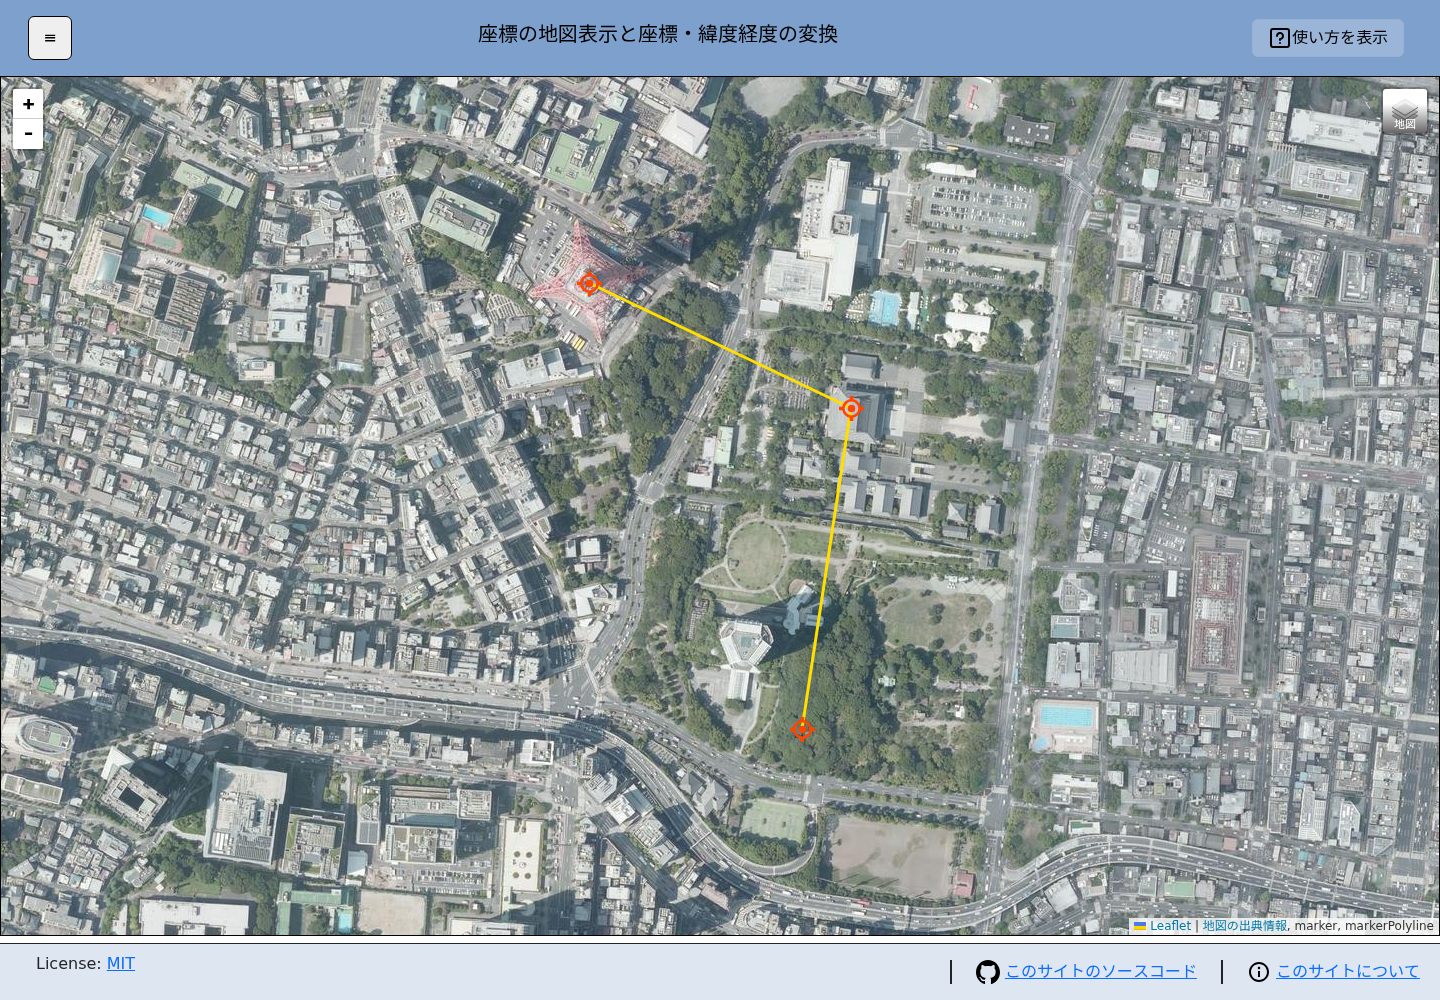
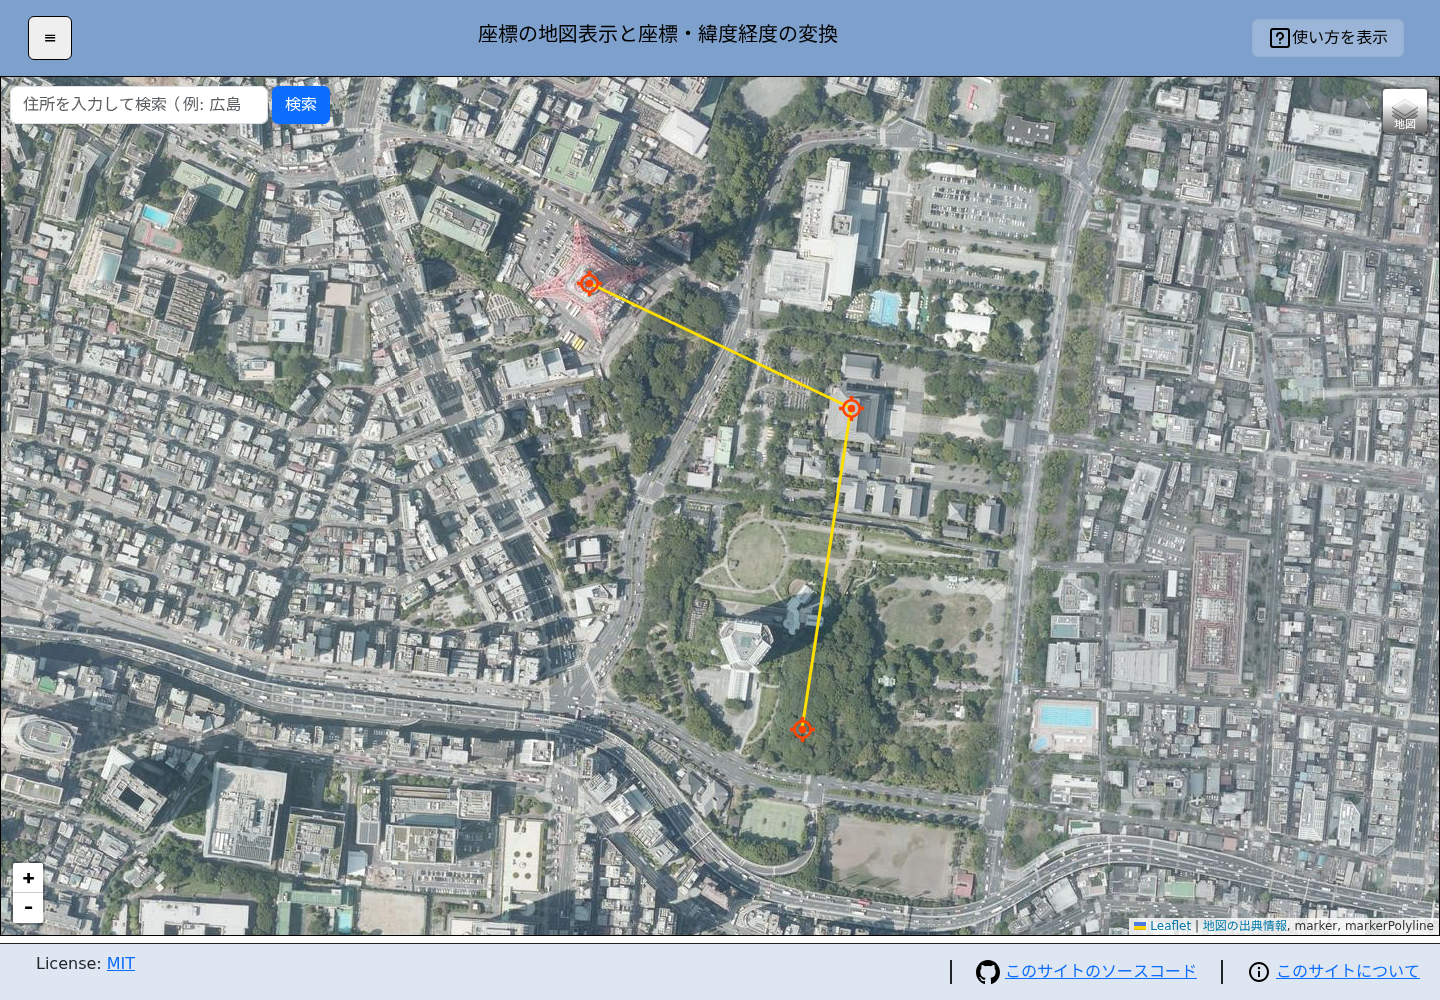
住所検索機能の追加に伴うマニュアルと操作ガイドを更新
住所入力から地図中心を移動する機能がマニュアルに未反映だったため、
操作マニュアルと目的別操作ガイドに住所検索の手順を追加した。

- docs/manual.html に「3. 住所で地図を移動する」を追加し、以降の節番号と
  目次を更新。「画面の見方」の表に住所検索欄と左下のズームボタンを追記し、
  「困ったときは」に住所検索の該当なし・検索失敗の対処を追加
- scripts/capture-manual-screenshots.mjs に住所検索の撮影処理を追加。
  候補一覧の表示（13）と候補確定後の地図移動（14）を撮影する。ホバーの
  ハイライトが残らないよう、ポインターを地図側へ退避してEnterで送信する
- 検索欄が地図左上に常設され、ズームコントロールが左下へ移動したことで
  見た目が変わった既存の地図スクリーンショットを再撮影
- src/partials/help.ejs に「都市計画・防災情報を確認する」と
  「住所で地図を移動する」の項目を追加（手作業による更新分）

gps_test1〜3.jpg がリポジトリに無いため、11-photo-locations.png は
再撮影せず従来の画像を据え置いている。

Changed region(s): [[0.0, 0.062, 0.25, 0.155], [0.0, 0.837, 0.0312, 0.93]]

diff --git a/docs/manual.html b/docs/manual.html
@@ -332,11 +332,11 @@
   <header class="cover">
     <p class="cover__eyebrow">User manual</p>
     <h1>座標の地図表示と<br>座標・緯度経度の変換</h1>
-    <p class="cover__lead">座標の入力、地図への図形追加、都市計画・防災情報の確認、距離計測、座標変換、CSV出力、写真位置表示の操作マニュアルです。</p>
+    <p class="cover__lead">住所検索、座標の入力、地図への図形追加、都市計画・防災情報の確認、距離計測、座標変換、CSV出力、写真位置表示の操作マニュアルです。</p>
     <div class="cover__meta">
       <span>デスクトップ版</span>
       <span>HTMLマニュアル</span>
-      <span>画面更新: 2026年9月15日</span>
+      <span>画面更新: 2026年9月17日</span>
     </div>
   </header>
 
@@ -346,6 +346,7 @@
       <ol>
         <li><a href="#start">はじめに</a></li>
         <li><a href="#screen">画面の見方</a></li>
+        <li><a href="#address">住所で地図を移動する</a></li>
         <li><a href="#input">座標を入力する</a></li>
         <li><a href="#markers">アイコンを一括追加する</a></li>
         <li><a href="#map-tools">地図を右クリックして加工する</a></li>
@@ -388,6 +389,8 @@
           <tbody>
             <tr><td>左上の「≡」</td><td>座標条件、データテーブル、地図加工、データ変換を表示します。</td></tr>
             <tr><td>中央の地図</td><td>移動、拡大・縮小、右クリック操作、写真のドロップを行います。</td></tr>
+            <tr><td>地図左上の住所検索欄</td><td>住所や地名を入力して、その地点へ地図を移動します。</td></tr>
+            <tr><td>地図左下の「＋」「－」</td><td>地図を拡大・縮小します。</td></tr>
             <tr><td>地図右上のレイヤーボタン</td><td>背景地図の切り替えと、不動産情報ライブラリの都市計画・防災情報の表示を行います。</td></tr>
             <tr><td>右上の「使い方を表示」</td><td>目的別の簡易操作ガイドを表示します。</td></tr>
           </tbody>
@@ -412,8 +415,35 @@
         </figure>
       </section>
 
+      <section id="address">
+        <h2>3. 住所で地図を移動する</h2>
+        <p>地図左上の検索欄に住所や地名を入力すると、その地点を中心に地図が移動します。座標を入力する前に目的の地域へ移動しておくと、以降の操作がしやすくなります。</p>
+        <ol>
+          <li>地図左上の検索欄に住所や地名を入力します（例: <code>芝公園</code>）。</li>
+          <li>「検索」を押すか、<kbd>Enter</kbd> を押します。</li>
+          <li>該当が1件の場合は、その地点へ地図が移動します。</li>
+          <li>該当が複数ある場合は、検索欄の下に候補一覧が表示されます。候補をクリックするか、<kbd>↑</kbd> <kbd>↓</kbd> で選んで <kbd>Enter</kbd> で確定します。<kbd>Esc</kbd> を押すと一覧を閉じます。</li>
+        </ol>
+        <figure>
+          <a href="assets/screenshots/13-address-search.png" target="_blank">
+            <img src="assets/screenshots/13-address-search.png" alt="地図左上の検索欄に住所を入力し、その下に住所の候補一覧を表示した状態" width="1440" height="1000" loading="lazy">
+          </a>
+          <figcaption>「芝公園」で検索し、候補一覧が表示された例。一覧はスクロールして選べます。</figcaption>
+        </figure>
+        <figure>
+          <a href="assets/screenshots/14-address-search-result.png" target="_blank">
+            <img src="assets/screenshots/14-address-search-result.png" alt="候補を選んで、選んだ住所を中心に地図が移動した状態" width="1440" height="1000" loading="lazy">
+          </a>
+          <figcaption>候補を選ぶと、その地点を中心に地図が移動し、検索欄には選んだ住所が入ります。</figcaption>
+        </figure>
+        <div class="note">
+          <strong>検索できる内容</strong>
+          住所検索には国土地理院の住所検索機能を使用しています。日本国内の住所・地名が対象で、番地や建物名まで特定できない場合があります。地図が移動するだけで、アイコンは追加されません。
+        </div>
+      </section>
+
       <section id="input">
-        <h2>3. 座標を入力する</h2>
+        <h2>4. 座標を入力する</h2>
         <ol>
           <li>左上の「≡」を押してメニューを開きます。</li>
           <li>「データの種類」で「XY座標」または「緯度経度」を選びます。</li>
@@ -449,7 +479,7 @@
       </section>
 
       <section id="markers">
-        <h2>4. アイコンを一括追加する</h2>
+        <h2>5. アイコンを一括追加する</h2>
         <ol>
           <li>データテーブルに座標を入力します。</li>
           <li>「地図加工」タブを開きます。</li>
@@ -492,7 +522,7 @@
       </section>
 
       <section id="map-tools">
-        <h2>5. 地図を右クリックして加工する</h2>
+        <h2>6. 地図を右クリックして加工する</h2>
         <p>地図上の任意の場所を右クリックすると、次のメニューが開きます。</p>
         <ul>
           <li>円を追加</li>
@@ -535,7 +565,7 @@
       </section>
 
       <section id="reinfolib">
-        <h2>6. 都市計画・防災情報を確認する</h2>
+        <h2>7. 都市計画・防災情報を確認する</h2>
         <p>国土交通省「不動産情報ライブラリ」の都市計画・防災情報を、地図への重ね合わせと地点ごとの属性情報で確認できます。</p>
 
         <h3>情報を地図に重ねて表示する</h3>
@@ -572,7 +602,7 @@
       </section>
 
       <section id="measure">
-        <h2>7. 距離を計測する</h2>
+        <h2>8. 距離を計測する</h2>
         <h3>地図上の任意の2点を計測する</h3>
         <ol>
           <li>始点を右クリックし、「この地点からの距離を計測」を選びます。</li>
@@ -591,7 +621,7 @@
       </section>
 
       <section id="convert">
-        <h2>8. 座標を変換・出力する</h2>
+        <h2>9. 座標を変換・出力する</h2>
         <ol>
           <li>変換元の種類、測地系、系番号を選び、データテーブルに値を入力します。</li>
           <li>「データ変換」タブを開きます。</li>
@@ -619,7 +649,7 @@
       </section>
 
       <section id="photo">
-        <h2>9. 写真の撮影場所を表示する</h2>
+        <h2>10. 写真の撮影場所を表示する</h2>
         <ol>
           <li>GPS位置情報が記録された画像ファイルを用意します。</li>
           <li>画像ファイルを地図上へドラッグ＆ドロップします。複数ファイルもまとめて指定できます。</li>
@@ -638,7 +668,7 @@
       </section>
 
       <section id="print">
-        <h2>10. 地図表示・削除・印刷</h2>
+        <h2>11. 地図表示・削除・印刷</h2>
         <h3>地図の種類を変える</h3>
         <p>地図右上のレイヤーボタンにポインターを合わせ、標準地図、淡色地図、航空写真などから選択します。</p>
 
@@ -659,7 +689,7 @@
       </section>
 
       <section id="trouble">
-        <h2>11. 困ったときは</h2>
+        <h2>12. 困ったときは</h2>
         <table>
           <thead>
             <tr><th>症状</th><th>確認すること</th></tr>
@@ -669,6 +699,8 @@
             <tr><td>入力行が処理されない</td><td>同じ行の2セルが両方入力されているか、数値として認識できる形式か確認します。</td></tr>
             <tr><td>表へ貼り付けられない</td><td>対象セルを選択し、<kbd>Ctrl</kbd> + <kbd>V</kbd> を使用します。</td></tr>
             <tr><td>地図が表示されない</td><td>ネットワーク接続を確認します。地図タイルは外部サービスから読み込まれます。</td></tr>
+            <tr><td>住所検索で「該当する住所が見つかりませんでした」と表示される</td><td>番地や建物名を省き、市区町村や町名までの短い表記で検索します。</td></tr>
+            <tr><td>「住所検索に失敗しました」と表示される</td><td>ネットワーク接続を確認し、しばらくしてから再度検索します。住所検索は外部サービスを利用します。</td></tr>
             <tr><td>写真の位置が表示されない</td><td>画像にGPS位置情報が記録されているか確認します。</td></tr>
             <tr><td>都市計画・防災情報が表示されない</td><td>レイヤーメニューのチェック欄とネットワーク接続を確認します。地点に該当する情報がない場合は「指定無し」と表示されます。</td></tr>
             <tr><td>画面上の図形を消したい</td><td>「地図加工」の「全図形を削除」を使用します。</td></tr>
